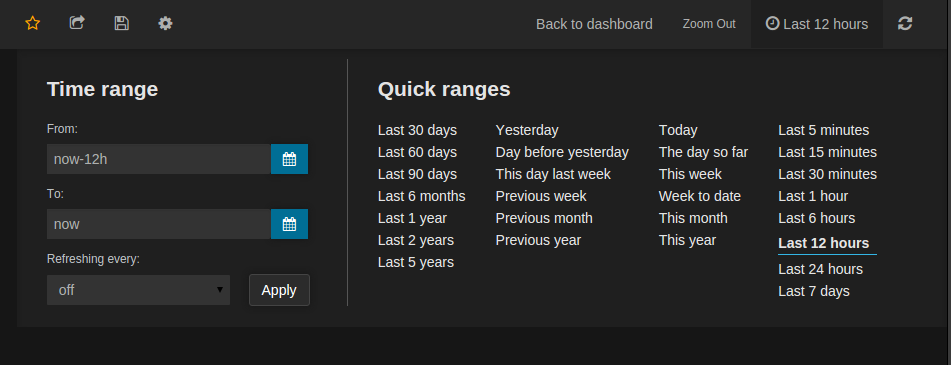
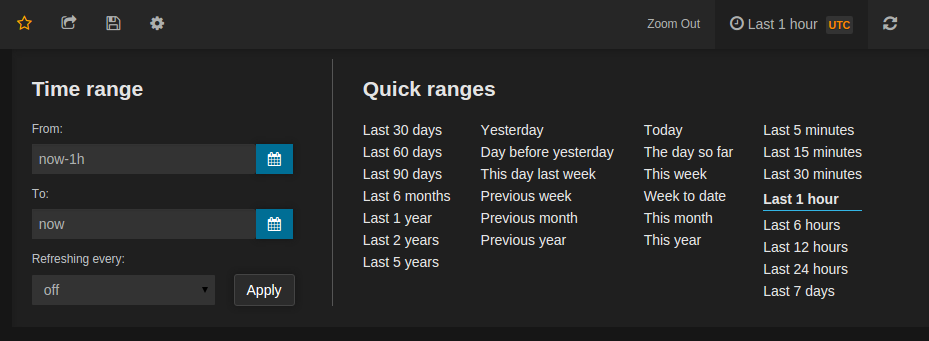
inital draft of new blogpost

diff --git a/source/blog/temp/next.md b/source/blog/temp/next.md
@@ -1,0 +1,97 @@
+---
+title: Grafana 2.5 Released
+author: Torkel Ödegaard
+published_on: October 28, 2015
+---
+
+We are pleased to announce that Grafana 2.5 is now released!
+
+<a href="http://grafana.org/download/" target="_blank">Download Grafana 2.5 now</a>
+
+## Release highlights
+We're excited about this release, and want to share some of the highlights. This release includes many
+fixes and enhancements to all areas of Grafana, like new Data Sources, new and improved time picker, user invites, panel
+resize handles and improved InfluxDB and OpenTSDB support.
+
+### New time picker
+<img src="/assets/img/features/timepicker.png" alt="New Time picker">
+
+A new time picker with room for more quick ranges as well as new types of relative ranges, like `Today`,
+`The day so far` and `This day last week`. Also an improved time & calendar that now works
+correctly in UTC mode.
+
+### Elasticsearch
+
+<img src="/assets/img/features/elasticsearch_metrics_ex1.png" alt="Elasticsearch example">
+<br>
+
+This release brings fully featured query editor for Elasticsearch. You will now be able to vizualize
+logs or any kind of data stored in Elasticserarch. The elasticsearch query editor
+allows you to build both simple and complex queries for logs or metrics.
+
+- Extract many types of metrics from documents like
+  - Count, Avg, Min, Max, Sum
+  - Percentiles, Std Dev, etc.
+- Group by multiple terms or filters
+  - Specify group by options like Top 5 based on Avg @value
+- Query only relevant indicies based on time pattern
+- Alias patterns for short readable series names
+
+Try the new Elasticsearch query editor on the [play.grafana.org](http://play.grafana.org/dashboard/db/elasticsearch-metrics) site.
+
+### CloudWatch
+
+<img src="/assets/img/features/cloudwatch.png" alt="Cloudwatch editor">
+
+Grafana 2.5 ships with a new CloudWatch datasource that will allow you to query and visualize CloudWatch
+metrics directly from Grafana.
+
+- Rich editor with auto completion for metric names, namespaces and dimensions
+- Templating queries for generic dashboards
+- Alias patterns for short readable series names
+
+### Prometheus
+
+<img src="/assets/img/features/prometheus_editor.png" alt="Prometheus editor">
+
+Grafana 2.5 ships with a new Prometheus datasource that will allow you to query and visualize data
+stored in Prometheus.
+
+
+### Mix different data sources
+<img src="/assets/img/features/mixed_data.png" alt="Mix data sources in the same dashboard or in the same graph!">
+
+In previous releases you have been able to mix different data sources on the same dashboard. In v2.5 you
+will be able to mix then on the same graph! You can enable this by selecting the built in `-- Mixed --` data source.
+When selected this will allow you to specify data source on a per query basis. This will allow you
+to plot metrics from different Graphite servers on the same Graph or plot data from Elasticsearch alongside
+data from Prometheus.
+
+### Panel Resize handles
+<img src="/assets/img/features/panel_resize.gif" alt="">
+
+This release adds resize handles to the the bottom right corners of panels making is easy to resize both width and height.
+
+### User invites
+<img src="/assets/img/features/org_invite.png" alt="">
+
+This version also brings some new features for user management.
+
+- Organization admins can now invite new users (via email or manually via invite link)
+- Users can signup using invite and get automatically added to invited organization
+- User signup can (if enabled) contain contian an email verification step.
+- Check out [#2353](https://github.com/grafana/grafana/issues/2353) for more info.
+
+### Miscellaneous improvements
+
+- InfluxDB query editor now supports math and AS expressions
+- InfluxDB query editor now supports custom group by interval
+- Panel drilldown link is easier to reach
+- LDAP improvements (can now search for group membership if your LDAP server does not support memberOf attribute)
+- More units for graph and singlestat panel (Length, Volume, Temperature, Pressure, Currency)
+- Admin page for all organizations (remove / edit)
+
+### Breaking changes
+There has been some changes to the data source plugin API. If you are using a custom plugin check that there is an update for it before you upgrade. Also
+the new time picker does not currenty support custom quick ranges like the last one did. This will likey be added in a 2.6 release.
+
